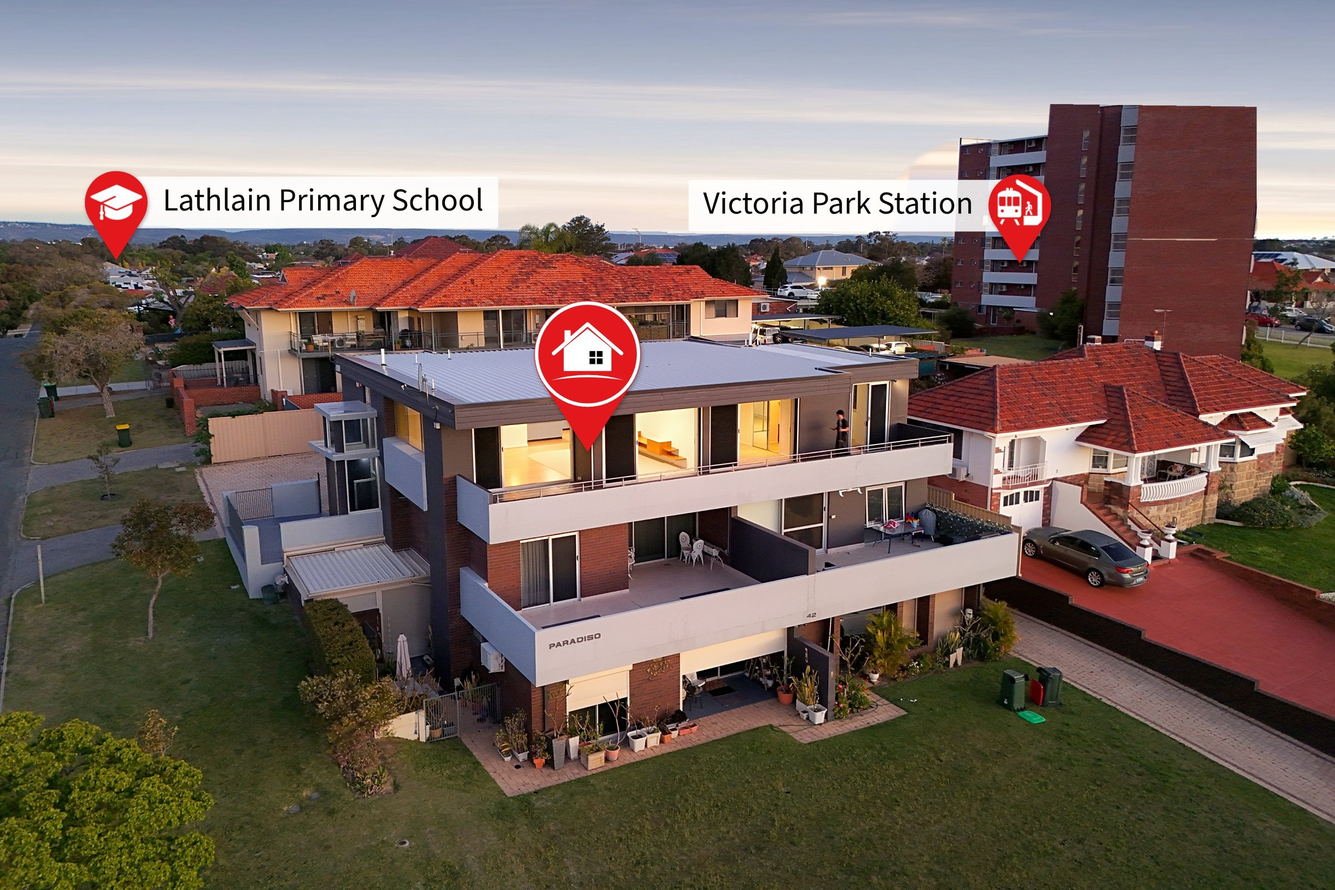
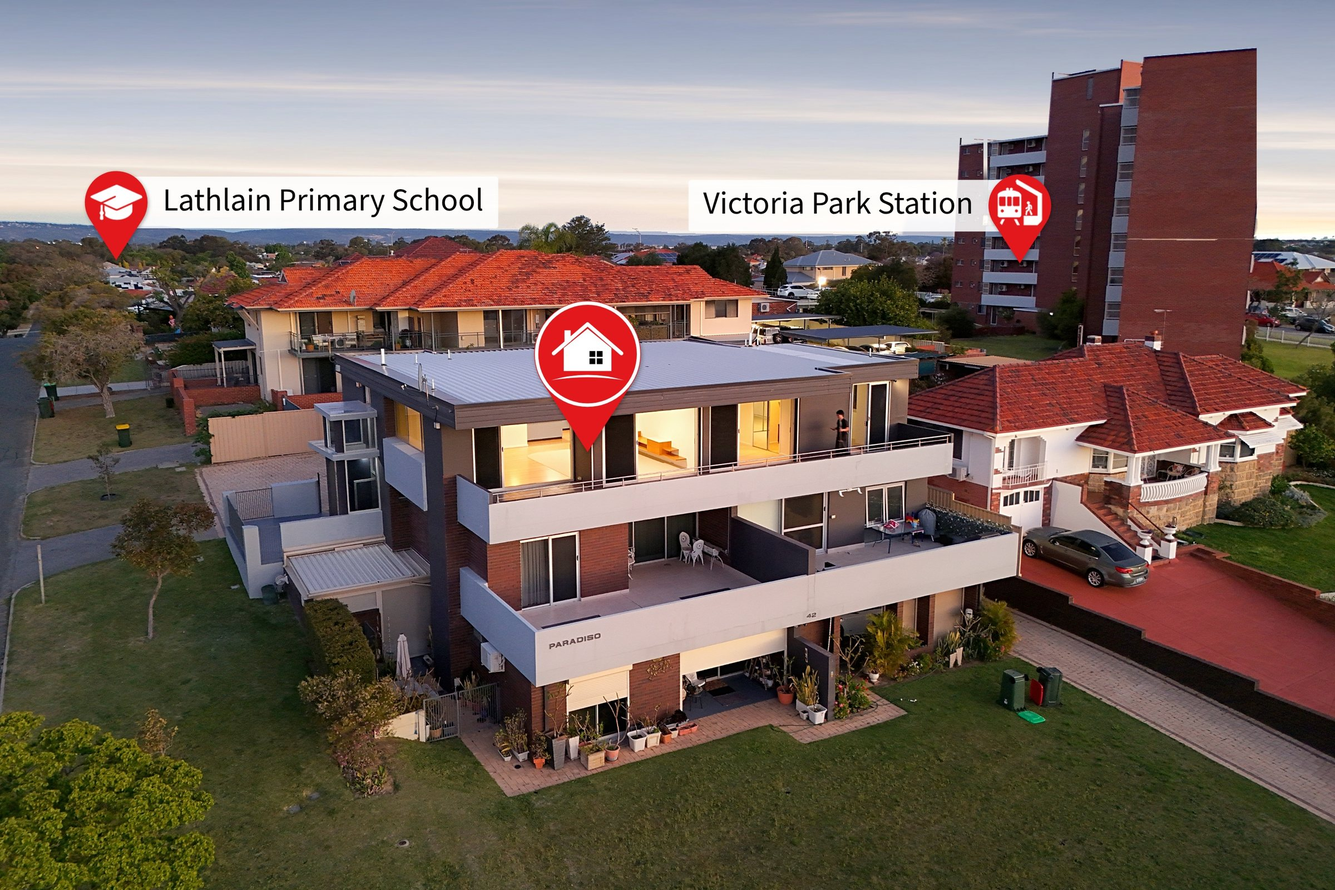
Lathlain: full tower roofline kept, pale arc beside tower removed; editor build
Claude-Session: https://claude.ai/code/session_01A5qGg2LnJXxgSHoMQFvEEG

Changed region(s): [[0.7812, 0.0312, 0.9688, 0.125], [0.6875, 0.1562, 0.75, 0.1875]]

diff --git a/aerials/26-oct-2026/index.html b/aerials/26-oct-2026/index.html
@@ -5,4 +5,4 @@ body{margin:0;background:var(--bg);color:var(--fg);font:15px/1.45 system-ui,-app
 header,section{max-width:1400px;margin:auto;padding:18px 16px}h1{font-size:20px;margin:0}h2{font-size:17px;margin:0}header p,section p{color:var(--mut);margin:4px 0 0}
 .ed{margin-left:10px;color:var(--acc);font-weight:600;text-decoration:none}a{color:var(--acc)}
 .g{display:grid;grid-template-columns:repeat(auto-fill,minmax(280px,1fr));gap:8px;margin-top:10px}.g img{width:100%;display:block;border-radius:4px}</style></head>
-<body><header><h1>Drone edits — Mon 26 Oct 2026</h1><p>Tap a photo for full size. <b>Edit</b> opens the job in the <a href="/pins/">editor</a> with all its pins and settings.</p></header><section><h2>30 Karangi Cir, Byford</h2><p>Sally Bulpitt · Rodway Group · 9 photos <a class="ed" href="/pins/?open=26-oct-2026/30_karangi_cir">Edit</a><a class="ed" href="/pins/?open=26-oct-2026/30_karangi_cir__nadir">Edit top-down</a></p><div class="g"><a href="30_karangi_cir/dji_fly_20261026_103336_0871_1793019919233_photo.jpg?v=1793134411" target="_blank"><img loading="lazy" src="30_karangi_cir/t/dji_fly_20261026_103336_0871_1793019919233_photo.jpg?v=1793134411" alt=""></a><a href="30_karangi_cir/dji_fly_20261026_103402_0872_1793019916803_photo.jpg?v=1793134411" target="_blank"><img loading="lazy" src="30_karangi_cir/t/dji_fly_20261026_103402_0872_1793019916803_photo.jpg?v=1793134411" alt=""></a><a href="30_karangi_cir/dji_fly_20261026_103416_0873_1793019912855_photo.jpg?v=1793134411" target="_blank"><img loading="lazy" src="30_karangi_cir/t/dji_fly_20261026_103416_0873_1793019912855_photo.jpg?v=1793134411" alt=""></a><a href="30_karangi_cir/dji_fly_20261026_103442_0874_1793019910369_photo.jpg?v=1793134411" target="_blank"><img loading="lazy" src="30_karangi_cir/t/dji_fly_20261026_103442_0874_1793019910369_photo.jpg?v=1793134411" alt=""></a><a href="30_karangi_cir/dji_fly_20261026_103502_0875_1793019907643_photo.jpg?v=1793134411" target="_blank"><img loading="lazy" src="30_karangi_cir/t/dji_fly_20261026_103502_0875_1793019907643_photo.jpg?v=1793134411" alt=""></a><a href="30_karangi_cir/dji_fly_20261026_103526_0876_1793019904253_photo.jpg?v=1793134411" target="_blank"><img loading="lazy" src="30_karangi_cir/t/dji_fly_20261026_103526_0876_1793019904253_photo.jpg?v=1793134411" alt=""></a><a href="30_karangi_cir/dji_fly_20261026_103540_0877_1793019901522_photo.jpg?v=1793134411" target="_blank"><img loading="lazy" src="30_karangi_cir/t/dji_fly_20261026_103540_0877_1793019901522_photo.jpg?v=1793134411" alt=""></a><a href="30_karangi_cir/dji_fly_20261026_103556_0878_1793019898733_photo.jpg?v=1793134411" target="_blank"><img loading="lazy" src="30_karangi_cir/t/dji_fly_20261026_103556_0878_1793019898733_photo.jpg?v=1793134411" alt=""></a><a href="30_karangi_cir/dji_fly_20261026_103610_0879_1793019896166_photo.jpg?v=1793134411" target="_blank"><img loading="lazy" src="30_karangi_cir/t/dji_fly_20261026_103610_0879_1793019896166_photo.jpg?v=1793134411" alt=""></a></div></section><section><h2>41 Coulthard Cres, Canning Vale</h2><p>Phil Lankowski · Rodway Group · 9 photos <a class="ed" href="/pins/?open=26-oct-2026/41_coulthard_cres">Edit</a><a class="ed" href="/pins/?open=26-oct-2026/41_coulthard_cres__nadir">Edit top-down</a></p><div class="g"><a href="41_coulthard_cres/dji_fly_20261026_132126_0881_1793019890605_photo.jpg?v=1793134411" target="_blank"><img loading="lazy" src="41_coulthard_cres/t/dji_fly_20261026_132126_0881_1793019890605_photo.jpg?v=1793134411" alt=""></a><a href="41_coulthard_cres/dji_fly_20261026_132144_0882_1793019887778_photo.jpg?v=1793134411" target="_blank"><img loading="lazy" src="41_coulthard_cres/t/dji_fly_20261026_132144_0882_1793019887778_photo.jpg?v=1793134411" alt=""></a><a href="41_coulthard_cres/dji_fly_20261026_132200_0883_1793019885134_photo.jpg?v=1793134411" target="_blank"><img loading="lazy" src="41_coulthard_cres/t/dji_fly_20261026_132200_0883_1793019885134_photo.jpg?v=1793134411" alt=""></a><a href="41_coulthard_cres/dji_fly_20261026_132224_0884_1793019882479_photo.jpg?v=1793134411" target="_blank"><img loading="lazy" src="41_coulthard_cres/t/dji_fly_20261026_132224_0884_1793019882479_photo.jpg?v=1793134411" alt=""></a><a href="41_coulthard_cres/dji_fly_20261026_132246_0885_1793019879873_photo.jpg?v=1793134411" target="_blank"><img loading="lazy" src="41_coulthard_cres/t/dji_fly_20261026_132246_0885_1793019879873_photo.jpg?v=1793134411" alt=""></a><a href="41_coulthard_cres/dji_fly_20261026_132302_0886_1793019877214_photo.jpg?v=1793134411" target="_blank"><img loading="lazy" src="41_coulthard_cres/t/dji_fly_20261026_132302_0886_1793019877214_photo.jpg?v=1793134411" alt=""></a><a href="41_coulthard_cres/dji_fly_20261026_132320_0887_1793019873465_photo.jpg?v=1793134411" target="_blank"><img loading="lazy" src="41_coulthard_cres/t/dji_fly_20261026_132320_0887_1793019873465_photo.jpg?v=1793134411" alt=""></a><a href="41_coulthard_cres/dji_fly_20261026_132332_0888_1793019871013_photo.jpg?v=1793134411" target="_blank"><img loading="lazy" src="41_coulthard_cres/t/dji_fly_20261026_132332_0888_1793019871013_photo.jpg?v=1793134411" alt=""></a><a href="41_coulthard_cres/dji_fly_20261026_132344_0889_1793019868493_photo.jpg?v=1793134411" target="_blank"><img loading="lazy" src="41_coulthard_cres/t/dji_fly_20261026_132344_0889_1793019868493_photo.jpg?v=1793134411" alt=""></a></div></section><section><h2>132A Arkana Rd, Westminster</h2><p>Emma Scharf · Professionals TWT · 8 photos <a class="ed" href="/pins/?open=26-oct-2026/132a_arkana_rd">Edit</a><a class="ed" href="/pins/?open=26-oct-2026/132a_arkana_rd__nadir">Edit top-down</a></p><div class="g"><a href="132a_arkana_rd/DJI_20261026155212_0129_D.jpg?v=1793134386" target="_blank"><img loading="lazy" src="132a_arkana_rd/t/DJI_20261026155212_0129_D.jpg?v=1793134386" alt=""></a><a href="132a_arkana_rd/DJI_20261026155234_0130_D.jpg?v=1793134386" target="_blank"><img loading="lazy" src="132a_arkana_rd/t/DJI_20261026155234_0130_D.jpg?v=1793134386" alt=""></a><a href="132a_arkana_rd/DJI_20261026155304_0131_D.jpg?v=1793134386" target="_blank"><img loading="lazy" src="132a_arkana_rd/t/DJI_20261026155304_0131_D.jpg?v=1793134386" alt=""></a><a href="132a_arkana_rd/DJI_20261026155318_0132_D.jpg?v=1793134386" target="_blank"><img loading="lazy" src="132a_arkana_rd/t/DJI_20261026155318_0132_D.jpg?v=1793134386" alt=""></a><a href="132a_arkana_rd/DJI_20261026155346_0133_D.jpg?v=1793134386" target="_blank"><img loading="lazy" src="132a_arkana_rd/t/DJI_20261026155346_0133_D.jpg?v=1793134386" alt=""></a><a href="132a_arkana_rd/DJI_20261026155403_0134_D.jpg?v=1793134386" target="_blank"><img loading="lazy" src="132a_arkana_rd/t/DJI_20261026155403_0134_D.jpg?v=1793134386" alt=""></a><a href="132a_arkana_rd/DJI_20261026155426_0135_D.jpg?v=1793134386" target="_blank"><img loading="lazy" src="132a_arkana_rd/t/DJI_20261026155426_0135_D.jpg?v=1793134386" alt=""></a><a href="132a_arkana_rd/DJI_20261026155511_0136_D.jpg?v=1793134386" target="_blank"><img loading="lazy" src="132a_arkana_rd/t/DJI_20261026155511_0136_D.jpg?v=1793134386" alt=""></a></div></section><section><h2>4/42 Rutland Ave, Lathlain</h2><p>Devon Kelly · Laurie Kelly · 7 photos <a class="ed" href="/pins/?open=26-oct-2026/42_rutland_ave">Edit</a></p><div class="g"><a href="42_rutland_ave/DJI_20261026190010_0313_D.jpg?v=1793134411" target="_blank"><img loading="lazy" src="42_rutland_ave/t/DJI_20261026190010_0313_D.jpg?v=1793134411" alt=""></a><a href="42_rutland_ave/DJI_20261026190055_0314_D.jpg?v=1793134411" target="_blank"><img loading="lazy" src="42_rutland_ave/t/DJI_20261026190055_0314_D.jpg?v=1793134411" alt=""></a><a href="42_rutland_ave/DJI_20261026190128_0315_D.jpg?v=1793134411" target="_blank"><img loading="lazy" src="42_rutland_ave/t/DJI_20261026190128_0315_D.jpg?v=1793134411" alt=""></a><a href="42_rutland_ave/DJI_20261026190140_0316_D.jpg?v=1793134411" target="_blank"><img loading="lazy" src="42_rutland_ave/t/DJI_20261026190140_0316_D.jpg?v=1793134411" alt=""></a><a href="42_rutland_ave/DJI_20261026190154_0317_D.jpg?v=1793134411" target="_blank"><img loading="lazy" src="42_rutland_ave/t/DJI_20261026190154_0317_D.jpg?v=1793134411" alt=""></a><a href="42_rutland_ave/DJI_20261026190214_0318_D.jpg?v=1793134411" target="_blank"><img loading="lazy" src="42_rutland_ave/t/DJI_20261026190214_0318_D.jpg?v=1793134411" alt=""></a><a href="42_rutland_ave/DJI_20261026190232_0319_D.jpg?v=1793134411" target="_blank"><img loading="lazy" src="42_rutland_ave/t/DJI_20261026190232_0319_D.jpg?v=1793134411" alt=""></a></div></section></body></html>
+<body><header><h1>Drone edits — Mon 26 Oct 2026</h1><p>Tap a photo for full size. <b>Edit</b> opens the job in the <a href="/pins/">editor</a> with all its pins and settings.</p></header><section><h2>30 Karangi Cir, Byford</h2><p>Sally Bulpitt · Rodway Group · 9 photos <a class="ed" href="/pins/?open=26-oct-2026/30_karangi_cir">Edit</a><a class="ed" href="/pins/?open=26-oct-2026/30_karangi_cir__nadir">Edit top-down</a></p><div class="g"><a href="30_karangi_cir/dji_fly_20261026_103336_0871_1793019919233_photo.jpg?v=1793134411" target="_blank"><img loading="lazy" src="30_karangi_cir/t/dji_fly_20261026_103336_0871_1793019919233_photo.jpg?v=1793134411" alt=""></a><a href="30_karangi_cir/dji_fly_20261026_103402_0872_1793019916803_photo.jpg?v=1793134411" target="_blank"><img loading="lazy" src="30_karangi_cir/t/dji_fly_20261026_103402_0872_1793019916803_photo.jpg?v=1793134411" alt=""></a><a href="30_karangi_cir/dji_fly_20261026_103416_0873_1793019912855_photo.jpg?v=1793134411" target="_blank"><img loading="lazy" src="30_karangi_cir/t/dji_fly_20261026_103416_0873_1793019912855_photo.jpg?v=1793134411" alt=""></a><a href="30_karangi_cir/dji_fly_20261026_103442_0874_1793019910369_photo.jpg?v=1793134411" target="_blank"><img loading="lazy" src="30_karangi_cir/t/dji_fly_20261026_103442_0874_1793019910369_photo.jpg?v=1793134411" alt=""></a><a href="30_karangi_cir/dji_fly_20261026_103502_0875_1793019907643_photo.jpg?v=1793134411" target="_blank"><img loading="lazy" src="30_karangi_cir/t/dji_fly_20261026_103502_0875_1793019907643_photo.jpg?v=1793134411" alt=""></a><a href="30_karangi_cir/dji_fly_20261026_103526_0876_1793019904253_photo.jpg?v=1793134411" target="_blank"><img loading="lazy" src="30_karangi_cir/t/dji_fly_20261026_103526_0876_1793019904253_photo.jpg?v=1793134411" alt=""></a><a href="30_karangi_cir/dji_fly_20261026_103540_0877_1793019901522_photo.jpg?v=1793134411" target="_blank"><img loading="lazy" src="30_karangi_cir/t/dji_fly_20261026_103540_0877_1793019901522_photo.jpg?v=1793134411" alt=""></a><a href="30_karangi_cir/dji_fly_20261026_103556_0878_1793019898733_photo.jpg?v=1793134411" target="_blank"><img loading="lazy" src="30_karangi_cir/t/dji_fly_20261026_103556_0878_1793019898733_photo.jpg?v=1793134411" alt=""></a><a href="30_karangi_cir/dji_fly_20261026_103610_0879_1793019896166_photo.jpg?v=1793134411" target="_blank"><img loading="lazy" src="30_karangi_cir/t/dji_fly_20261026_103610_0879_1793019896166_photo.jpg?v=1793134411" alt=""></a></div></section><section><h2>41 Coulthard Cres, Canning Vale</h2><p>Phil Lankowski · Rodway Group · 9 photos <a class="ed" href="/pins/?open=26-oct-2026/41_coulthard_cres">Edit</a><a class="ed" href="/pins/?open=26-oct-2026/41_coulthard_cres__nadir">Edit top-down</a></p><div class="g"><a href="41_coulthard_cres/dji_fly_20261026_132126_0881_1793019890605_photo.jpg?v=1793134411" target="_blank"><img loading="lazy" src="41_coulthard_cres/t/dji_fly_20261026_132126_0881_1793019890605_photo.jpg?v=1793134411" alt=""></a><a href="41_coulthard_cres/dji_fly_20261026_132144_0882_1793019887778_photo.jpg?v=1793134411" target="_blank"><img loading="lazy" src="41_coulthard_cres/t/dji_fly_20261026_132144_0882_1793019887778_photo.jpg?v=1793134411" alt=""></a><a href="41_coulthard_cres/dji_fly_20261026_132200_0883_1793019885134_photo.jpg?v=1793134411" target="_blank"><img loading="lazy" src="41_coulthard_cres/t/dji_fly_20261026_132200_0883_1793019885134_photo.jpg?v=1793134411" alt=""></a><a href="41_coulthard_cres/dji_fly_20261026_132224_0884_1793019882479_photo.jpg?v=1793134411" target="_blank"><img loading="lazy" src="41_coulthard_cres/t/dji_fly_20261026_132224_0884_1793019882479_photo.jpg?v=1793134411" alt=""></a><a href="41_coulthard_cres/dji_fly_20261026_132246_0885_1793019879873_photo.jpg?v=1793134411" target="_blank"><img loading="lazy" src="41_coulthard_cres/t/dji_fly_20261026_132246_0885_1793019879873_photo.jpg?v=1793134411" alt=""></a><a href="41_coulthard_cres/dji_fly_20261026_132302_0886_1793019877214_photo.jpg?v=1793134411" target="_blank"><img loading="lazy" src="41_coulthard_cres/t/dji_fly_20261026_132302_0886_1793019877214_photo.jpg?v=1793134411" alt=""></a><a href="41_coulthard_cres/dji_fly_20261026_132320_0887_1793019873465_photo.jpg?v=1793134411" target="_blank"><img loading="lazy" src="41_coulthard_cres/t/dji_fly_20261026_132320_0887_1793019873465_photo.jpg?v=1793134411" alt=""></a><a href="41_coulthard_cres/dji_fly_20261026_132332_0888_1793019871013_photo.jpg?v=1793134411" target="_blank"><img loading="lazy" src="41_coulthard_cres/t/dji_fly_20261026_132332_0888_1793019871013_photo.jpg?v=1793134411" alt=""></a><a href="41_coulthard_cres/dji_fly_20261026_132344_0889_1793019868493_photo.jpg?v=1793134411" target="_blank"><img loading="lazy" src="41_coulthard_cres/t/dji_fly_20261026_132344_0889_1793019868493_photo.jpg?v=1793134411" alt=""></a></div></section><section><h2>132A Arkana Rd, Westminster</h2><p>Emma Scharf · Professionals TWT · 8 photos <a class="ed" href="/pins/?open=26-oct-2026/132a_arkana_rd">Edit</a><a class="ed" href="/pins/?open=26-oct-2026/132a_arkana_rd__nadir">Edit top-down</a></p><div class="g"><a href="132a_arkana_rd/DJI_20261026155212_0129_D.jpg?v=1793136438" target="_blank"><img loading="lazy" src="132a_arkana_rd/t/DJI_20261026155212_0129_D.jpg?v=1793136438" alt=""></a><a href="132a_arkana_rd/DJI_20261026155234_0130_D.jpg?v=1793136438" target="_blank"><img loading="lazy" src="132a_arkana_rd/t/DJI_20261026155234_0130_D.jpg?v=1793136438" alt=""></a><a href="132a_arkana_rd/DJI_20261026155304_0131_D.jpg?v=1793136438" target="_blank"><img loading="lazy" src="132a_arkana_rd/t/DJI_20261026155304_0131_D.jpg?v=1793136438" alt=""></a><a href="132a_arkana_rd/DJI_20261026155318_0132_D.jpg?v=1793136438" target="_blank"><img loading="lazy" src="132a_arkana_rd/t/DJI_20261026155318_0132_D.jpg?v=1793136438" alt=""></a><a href="132a_arkana_rd/DJI_20261026155346_0133_D.jpg?v=1793136438" target="_blank"><img loading="lazy" src="132a_arkana_rd/t/DJI_20261026155346_0133_D.jpg?v=1793136438" alt=""></a><a href="132a_arkana_rd/DJI_20261026155403_0134_D.jpg?v=1793136438" target="_blank"><img loading="lazy" src="132a_arkana_rd/t/DJI_20261026155403_0134_D.jpg?v=1793136438" alt=""></a><a href="132a_arkana_rd/DJI_20261026155426_0135_D.jpg?v=1793136438" target="_blank"><img loading="lazy" src="132a_arkana_rd/t/DJI_20261026155426_0135_D.jpg?v=1793136438" alt=""></a><a href="132a_arkana_rd/DJI_20261026155511_0136_D.jpg?v=1793136438" target="_blank"><img loading="lazy" src="132a_arkana_rd/t/DJI_20261026155511_0136_D.jpg?v=1793136438" alt=""></a></div></section><section><h2>4/42 Rutland Ave, Lathlain</h2><p>Devon Kelly · Laurie Kelly · 7 photos <a class="ed" href="/pins/?open=26-oct-2026/42_rutland_ave">Edit</a></p><div class="g"><a href="42_rutland_ave/DJI_20261026190010_0313_D.jpg?v=1793136449" target="_blank"><img loading="lazy" src="42_rutland_ave/t/DJI_20261026190010_0313_D.jpg?v=1793136449" alt=""></a><a href="42_rutland_ave/DJI_20261026190055_0314_D.jpg?v=1793136449" target="_blank"><img loading="lazy" src="42_rutland_ave/t/DJI_20261026190055_0314_D.jpg?v=1793136449" alt=""></a><a href="42_rutland_ave/DJI_20261026190128_0315_D.jpg?v=1793136449" target="_blank"><img loading="lazy" src="42_rutland_ave/t/DJI_20261026190128_0315_D.jpg?v=1793136449" alt=""></a><a href="42_rutland_ave/DJI_20261026190140_0316_D.jpg?v=1793136449" target="_blank"><img loading="lazy" src="42_rutland_ave/t/DJI_20261026190140_0316_D.jpg?v=1793136449" alt=""></a><a href="42_rutland_ave/DJI_20261026190154_0317_D.jpg?v=1793136449" target="_blank"><img loading="lazy" src="42_rutland_ave/t/DJI_20261026190154_0317_D.jpg?v=1793136449" alt=""></a><a href="42_rutland_ave/DJI_20261026190214_0318_D.jpg?v=1793136449" target="_blank"><img loading="lazy" src="42_rutland_ave/t/DJI_20261026190214_0318_D.jpg?v=1793136449" alt=""></a><a href="42_rutland_ave/DJI_20261026190232_0319_D.jpg?v=1793136449" target="_blank"><img loading="lazy" src="42_rutland_ave/t/DJI_20261026190232_0319_D.jpg?v=1793136449" alt=""></a></div></section></body></html>

diff --git a/pins/index.html b/pins/index.html
@@ -710,13 +710,13 @@ function finishImage(base, p){
     return Math.max(kb, Math.min(1, Math.max(0, (refWide[j%w]-40-g1[j])/15))); };
   if (sky && SKYP && SKYP.direct){ solidTop = new Float32Array(w);
     for (let x=0;x<w;x++){ const hz=line(x); let top=hz, gap=0; const gMax = Math.max(2, (0.004*h)|0);
-      for (let y=Math.floor(hz); y>Math.max(0,hz-0.15*h); y--){ const j=y*w+x; if (solidK(j*4,j) > 0.5){ top=y; gap=0; } else if (++gap > gMax) break; }
+      for (let y=Math.floor(hz); y>Math.max(0,hz-0.28*h); y--){ const j=y*w+x; if (solidK(j*4,j) > 0.5){ top=y; gap=0; } else if (++gap > gMax) break; }
       solidTop[x]=top; }
     // a column only counts if its neighbours agree (no single-column spikes)
     const st2 = new Float32Array(w); for (let x=0;x<w;x++){ const v=[]; for (let k=-2;k<=2;k++) v.push(solidTop[Math.min(w-1,Math.max(0,x+k))]); v.sort((a,b)=>a-b); st2[x]=v[2]; } solidTop = st2; }
   if (sky && SKYP && SKYP.direct){
     const d2 = new Float32Array(w*h); for (let k=0;k<d2.length;k++) d2[k] = Math.abs(Y[k]-g3[k]); const T2 = gaussBlur(d2, w, h, 1.5*scale+0.3);
-    const Yb = g1, maxUp = (Object.assign({},TUNE,window.__TUNE||{}).landUp||0.10)*h, gapMax = 2; landTop = new Float32Array(w);
+    const Yb = g1, maxUp = (Object.assign({},TUNE,window.__TUNE||{}).landUp||0.05)*h, gapMax = 2; landTop = new Float32Array(w);
     for (let x=0;x<w;x++){ const hz=line(x); let top=hz, gap=0;
       for (let y=Math.floor(hz-0.0015*h); y>Math.max(0,hz-maxUp); y--){ const j=y*w+x; const up = hz - y, land = (up < 0.004*h && Yb[j] < refY[x]-12) || (Yb[j] < refY[x]-45) || (T2[j] > 2.6 && Yb[j] < refY[x]-6);
         if (land){ top=y; gap=0; } else if (++gap > gapMax) break; }
